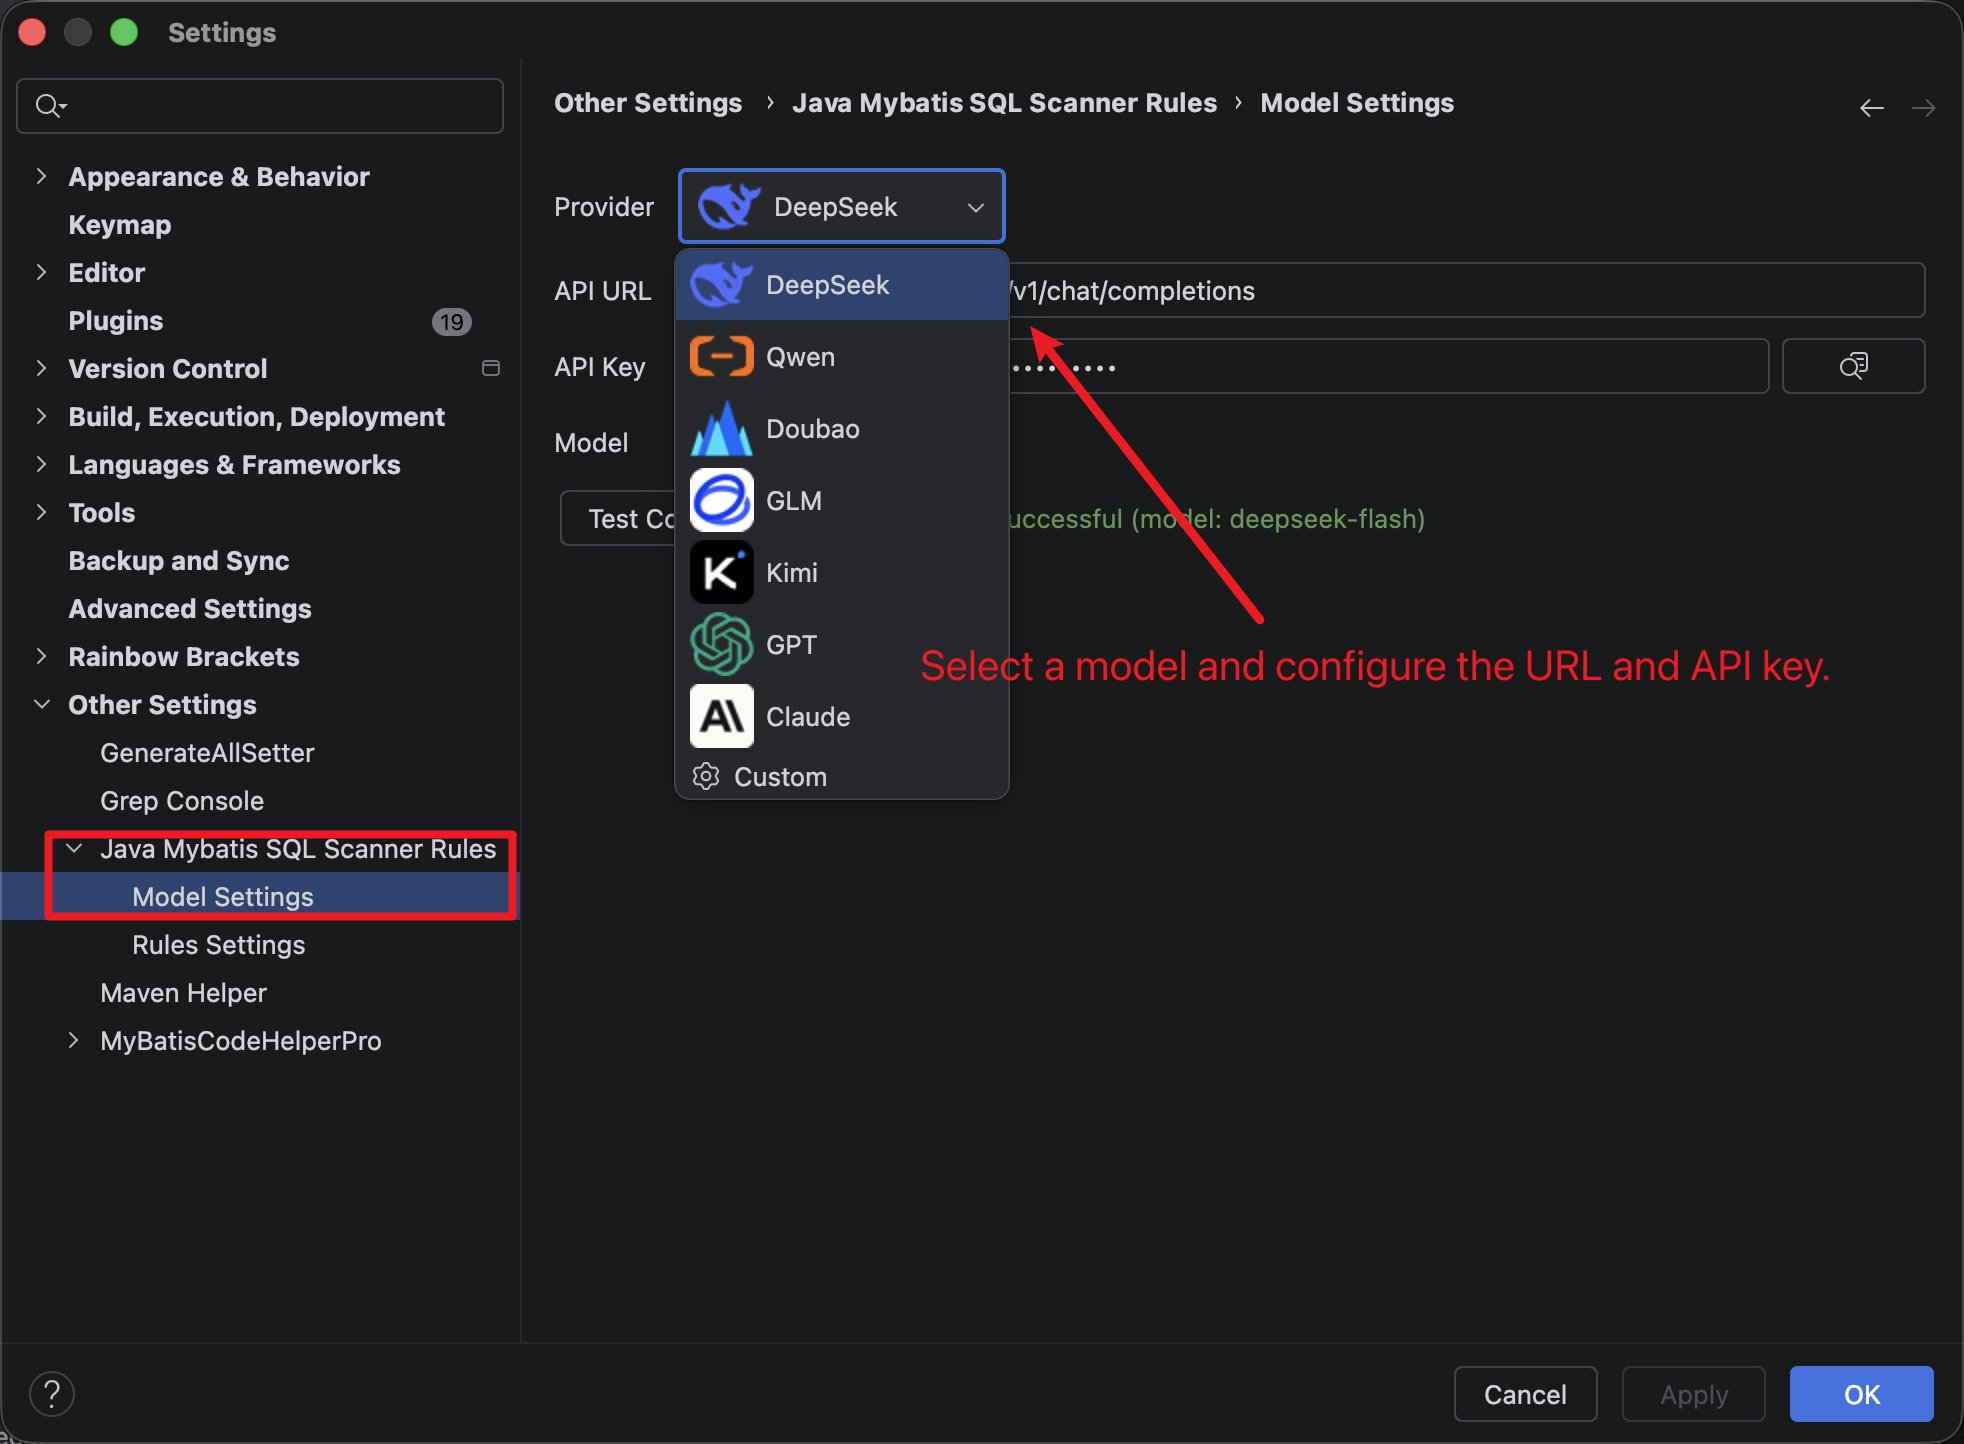
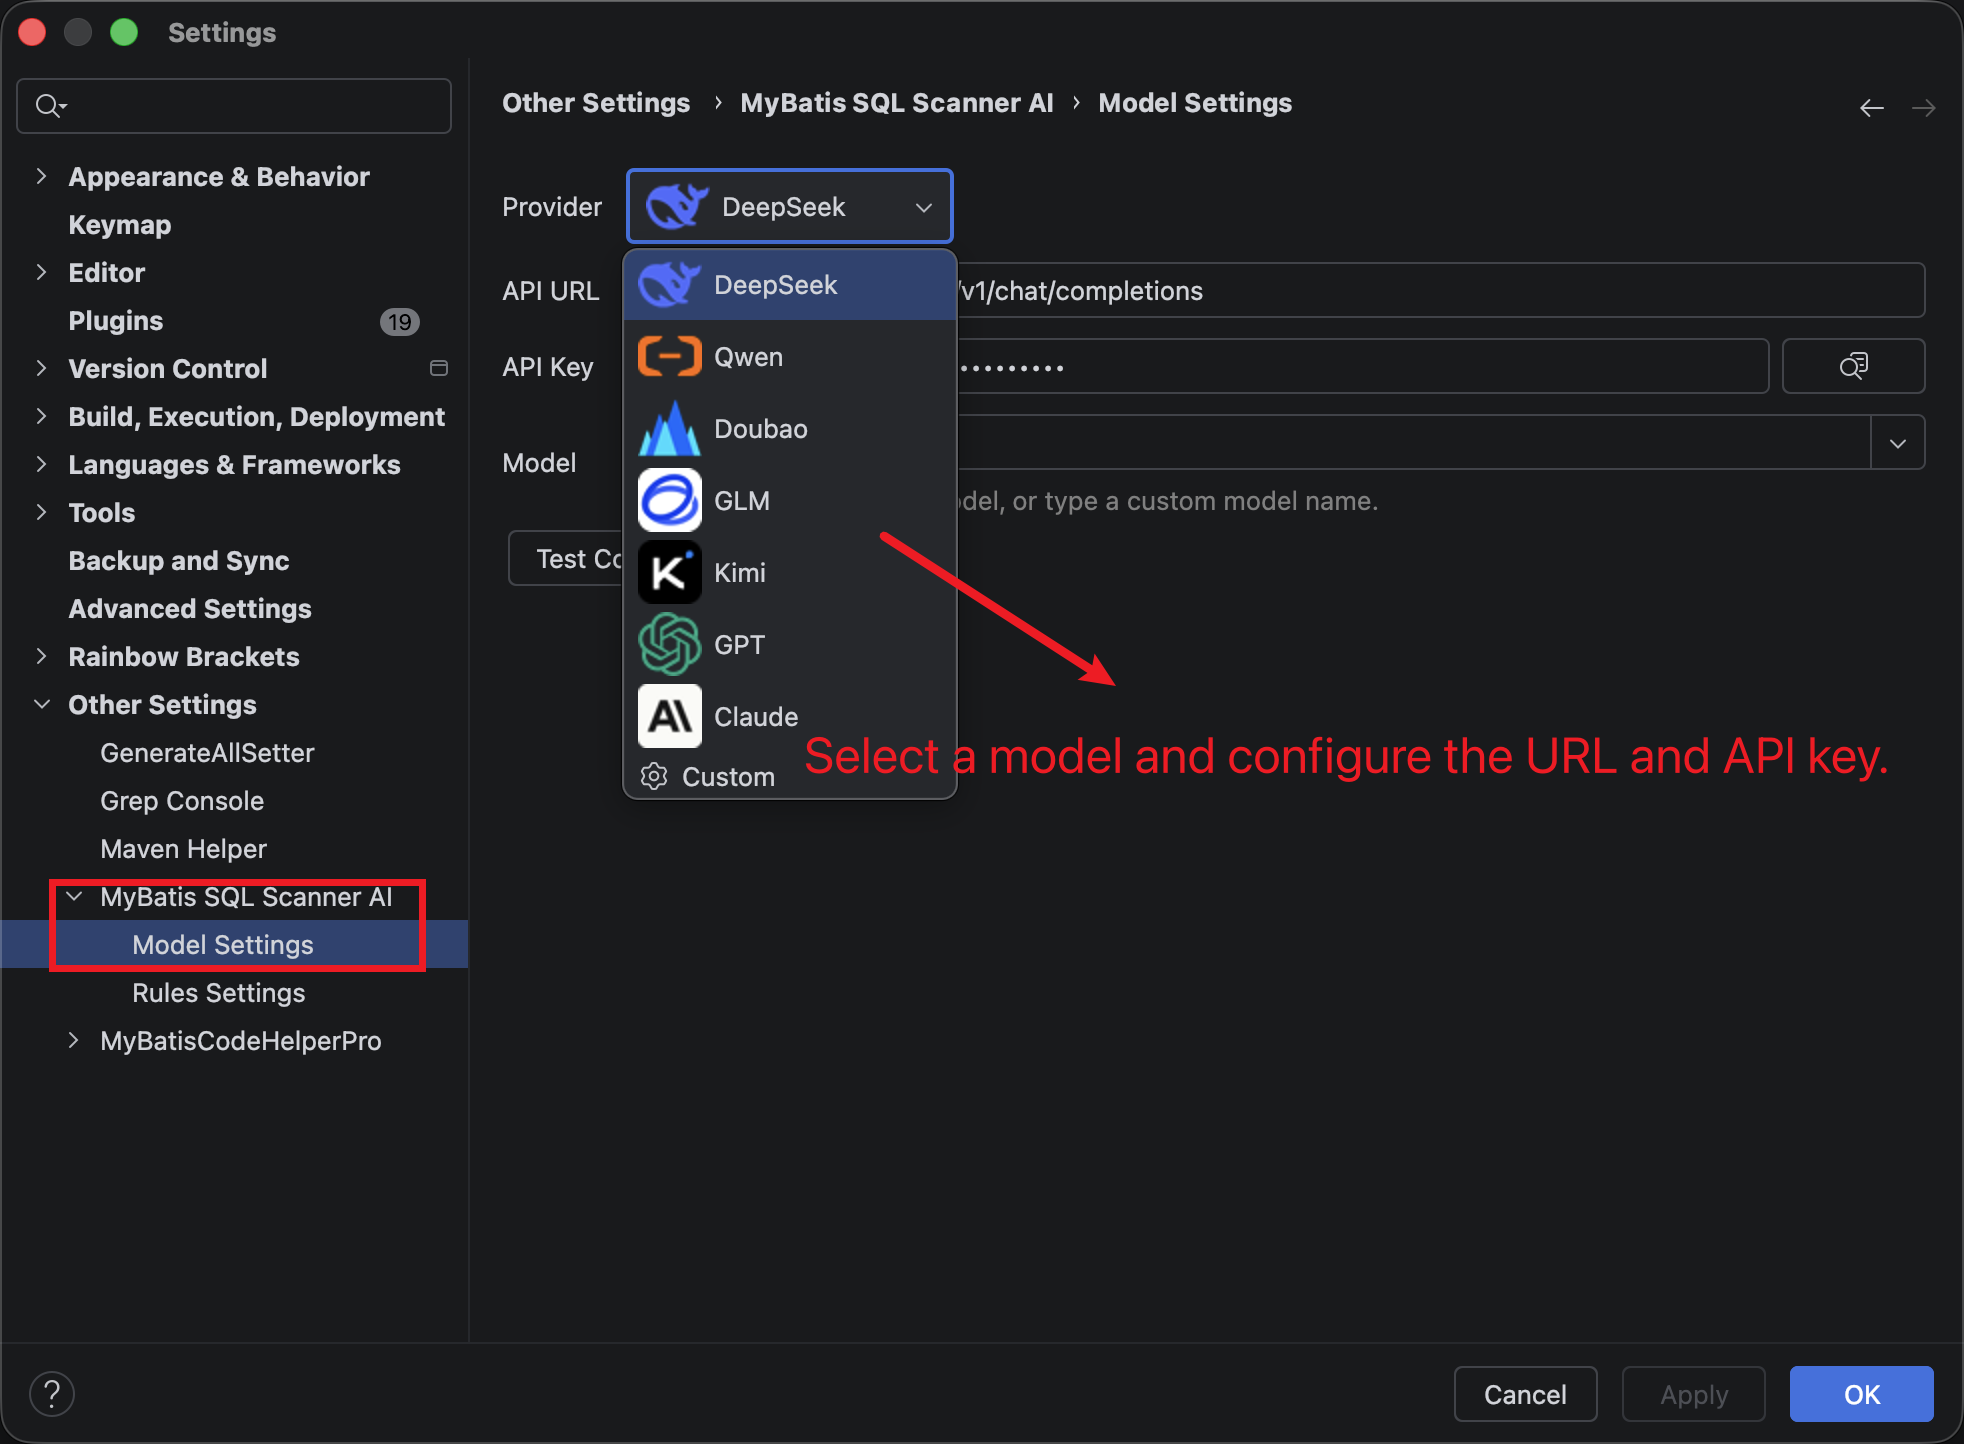
Unify the name as: MyBatis SQL Scanner AI，Refresh Guide Tutorial

diff --git a/src/main/java/com/zhang/scanner/settings/ai/AiModelSettingsConfig.java b/src/main/java/com/zhang/scanner/settings/ai/AiModelSettingsConfig.java
@@ -5,6 +5,7 @@ import com.intellij.openapi.application.ApplicationManager;
 import com.intellij.openapi.application.ModalityState;
 import com.intellij.openapi.options.SearchableConfigurable;
 import com.intellij.ui.JBColor;
+import com.intellij.ui.components.JBLabel;
 import com.intellij.util.ui.FormBuilder;
 import com.zhang.scanner.ai.AiApiClient;
 import com.zhang.scanner.utils.LanguageUtil;
@@ -84,6 +85,22 @@ public class AiModelSettingsConfig implements SearchableConfigurable {
         apiKeyField = new JPasswordField();
         modelCombo = new JComboBox<>();
         modelCombo.setEditable(true);
+
+        // Model 下拉可编辑: 常驻提示 + tooltip 让用户知道选中推荐模型后仍可直接输入自定义模型名
+        String modelTip = LanguageUtil.zhOrEn(
+                "Select a recommended model, or type a custom model name.",
+                "可选择推荐模型，也可直接输入自定义模型名。");
+        modelCombo.setToolTipText(modelTip);
+        ((JComponent) modelCombo.getEditor().getEditorComponent()).setToolTipText(modelTip);
+
+        JBLabel modelHint = new JBLabel(LanguageUtil.zhOrEn(
+                "Choose a recommended model, or type a custom model name.",
+                "可选择推荐模型，也可直接输入自定义模型名。"));
+        modelHint.setForeground(JBColor.GRAY);
+
+        JPanel modelPanel = new JPanel(new BorderLayout(0, 2));
+        modelPanel.add(modelCombo, BorderLayout.NORTH);
+        modelPanel.add(modelHint, BorderLayout.SOUTH);
 
         // Provider 下拉框: 选中项显示名随 UI 语言
         providerCombo = new JComboBox<>(AiProviderRegistry.PRESETS.toArray(
@@ -180,7 +197,7 @@ public class AiModelSettingsConfig implements SearchableConfigurable {
                 .addLabeledComponent(LanguageUtil.zhOrEn("Provider", "服务商"), providerCombo)
                 .addLabeledComponent(LanguageUtil.zhOrEn("API URL", "API 地址"), apiUrlField)
                 .addLabeledComponent(LanguageUtil.zhOrEn("API Key", "API 密钥"), apiKeyPanel)
-                .addLabeledComponent(LanguageUtil.zhOrEn("Model", "模型"), modelCombo)
+                .addLabeledComponent(LanguageUtil.zhOrEn("Model", "模型"), modelPanel)
                 .addComponent(testRow)
                 .addComponentFillVertically(new JPanel(), 0)
                 .getPanel();

diff --git a/src/main/java/com/zhang/scanner/ConsoleToolRunner.java b/src/main/java/com/zhang/scanner/ConsoleToolRunner.java
@@ -109,7 +109,7 @@ public class ConsoleToolRunner implements Disposable {
 
         // 新增第1个content, 展示 扫描结果
         final Content content = layoutUi.createContent("contentId", splitterPanel,
-                "SQL Scanner", AllIcons.Debugger.Console, splitterPanel);
+                "MyBatis SQL Scanner AI", AllIcons.Debugger.Console, splitterPanel);
         // 不允许关闭
         content.setCloseable(false);
         layoutUi.addContent(content);
@@ -149,7 +149,7 @@ public class ConsoleToolRunner implements Disposable {
         Map<RuleCodeEnum, List<XmlPluginRuleResult>> ruleMap = xmlPluginRuleResultAll.getRuleMap();
 
         // 创建root主节点
-        RootTreeNode root = new RootTreeNode("Mybatis Scanner");
+        RootTreeNode root = new RootTreeNode("MyBatis SQL Scanner AI");
 
         // 创建1级子节点(阻塞,严重,主要),固定顺序
         Map<String, C1DegreeTreeNode> c1DegreeTreeNodeMap = new HashMap<>();
@@ -216,7 +216,7 @@ public class ConsoleToolRunner implements Disposable {
             @NotNull
             @Override
             public String getName() {
-                return "Scanner";
+                return "MyBatis SQL Scanner AI";
             }
 
             @Override

diff --git a/src/main/java/com/zhang/scanner/settings/ai/ParentSettingsConfig.java b/src/main/java/com/zhang/scanner/settings/ai/ParentSettingsConfig.java
@@ -17,7 +17,7 @@ import java.awt.Font;
 
 /**
  * 设置页父节点:
- * Other Settings > Java Mybatis SQL Scanner Rules
+ * Other Settings > MyBatis SQL Scanner AI
  * 下挂 Rules Settings 与 Model Settings 两个子页(子页在 plugin.xml 中通过 parentId 注册)
  * <p>
  * 点击父节点时显示说明面板(避免平台对无内容节点显示占位文案).
@@ -34,7 +34,7 @@ public class ParentSettingsConfig implements SearchableConfigurable {
 
     @Override
     public String getDisplayName() {
-        return "Java Mybatis SQL Scanner Rules";
+        return "MyBatis SQL Scanner AI";
     }
 
     @Nullable
@@ -46,7 +46,7 @@ public class ParentSettingsConfig implements SearchableConfigurable {
         JPanel content = new JPanel();
         content.setLayout(new BoxLayout(content, BoxLayout.Y_AXIS));
 
-        JBLabel title = new JBLabel("Java Mybatis SQL Scanner Rules");
+        JBLabel title = new JBLabel("MyBatis SQL Scanner AI");
         Font titleFont = title.getFont();
         title.setFont(titleFont.deriveFont(Font.BOLD, titleFont.getSize() + 2f));
 

diff --git a/src/main/java/com/zhang/scanner/executor/TreeConsoleExecutor.java b/src/main/java/com/zhang/scanner/executor/TreeConsoleExecutor.java
@@ -20,6 +20,11 @@ public class TreeConsoleExecutor extends Executor implements Disposable {
 
     public static final String PLUGIN_ID = "SQL Plugin ID";
 
+    /**
+     * 插件用户可见显示名(与 plugin.xml <name> 保持一致)
+     */
+    public static final String PLUGIN_NAME = "MyBatis SQL Scanner AI";
+
     public static final String TOOL_WINDOW_ID = "Scanner";
 
 
@@ -73,19 +78,19 @@ public class TreeConsoleExecutor extends Executor implements Disposable {
 
     @Override
     public String getDescription() {
-        return TOOL_WINDOW_ID;
+        return PLUGIN_NAME;
     }
 
     @NotNull
     @Override
     public String getActionName() {
-        return TOOL_WINDOW_ID;
+        return PLUGIN_NAME;
     }
 
     @NotNull
     @Override
     public String getStartActionText() {
-        return TOOL_WINDOW_ID;
+        return PLUGIN_NAME;
     }
 
     @Override

diff --git a/src/main/java/com/zhang/scanner/action/RunAction.java b/src/main/java/com/zhang/scanner/action/RunAction.java
@@ -54,7 +54,7 @@ public class RunAction extends AnAction {
 
         // 扫描(核心解析)属于耗时操作, 禁止在 EDT 上执行, 否则大目录扫描会卡死界面.
         // 解析完成后回到 EDT 创建结果面板.
-        new Task.Backgroundable(project, "Java Mybatis SQL Scanner: 扫描 Mybatis SQL XML", true) {
+        new Task.Backgroundable(project, "MyBatis SQL Scanner AI: 扫描 MyBatis SQL XML", true) {
             @Override
             public void run(@NotNull ProgressIndicator indicator) {
                 indicator.setIndeterminate(true);

diff --git a/src/main/java/com/zhang/scanner/ui/table/rule_active_setting/MySetttingTable.java b/src/main/java/com/zhang/scanner/ui/table/rule_active_setting/MySetttingTable.java
@@ -233,7 +233,7 @@ public class MySetttingTable {
                     }
                 };
 
-        tableEditor = new TableModelEditor<>(COLUMNS, itemEditor, "SQL Scanner Settings")
+        tableEditor = new TableModelEditor<>(COLUMNS, itemEditor, "MyBatis SQL Scanner AI")
                 .modelListener(new TableModelEditor.DataChangedListener<MySettingRow>() {
 
                     /**

diff --git a/README.MD b/README.MD
@@ -13,7 +13,7 @@ turn rules on or off.
 
 Ask AI: 点击预览面板的 Ask AI 按钮, 将当前 SQL(原始 XML / 格式化 SQL / SQL Type / 报错建议)交给 AI 做智能分析, 支持 DeepSeek、Qwen、Doubao、GLM、Kimi、GPT、Claude 与自定义(OpenAI 兼容协议; 需 Anthropic 协议时选择 Claude 预设并改填 URL 即可).  
 回答流式输出; 思考型模型的思考过程以斜体小字实时展示、回答开始后自动折叠(点标题展开); 回答区字号可调并持久化; 同一 SQL 未换模型/语言时复用上次回答, 不重复调用. AI Language 按钮可切换 AI 回答语言(中文/英文/跟随 IDE), 与界面语言无关.  
-首次使用请在 `Settings > Other Settings > Java Mybatis SQL Scanner Rules > Model Settings` 中通过 Provider 下拉框(带官方图标)选择供应商、配置 API URL / API Key / Model(选择后自动填充官方默认值, 可编辑), 并用 Test Connection 验证配置(真实调用一次, 模型名填错会提示并列出可用模型). 每家供应商独立保存一套配置, 切换后无需重新填写.
+首次使用请在 `Settings > Other Settings > MyBatis SQL Scanner AI > Model Settings` 中通过 Provider 下拉框(带官方图标)选择供应商、配置 API URL / API Key / Model(选择后自动填充官方默认值, 可编辑), 并用 Test Connection 验证配置(真实调用一次, 模型名填错会提示并列出可用模型). 每家供应商独立保存一套配置, 切换后无需重新填写.
 
 这里开源的是idea插件界面，扫描核心方法在jar包 <b>resources/libs</b>.
 

diff --git a/architecture.md b/architecture.md
@@ -1,6 +1,6 @@
 # 架构文档
 
-> 本文档描述 Java Mybatis SQL Scanner 插件的分层架构、核心流程与关键设计。扫描核心为闭源 jar，仅从公开 API 与字节码层面说明契约。
+> 本文档描述 MyBatis SQL Scanner AI 插件的分层架构、核心流程与关键设计。扫描核心为闭源 jar，仅从公开 API 与字节码层面说明契约。
 
 ## 1. 总体架构
 
@@ -55,7 +55,7 @@
 
 ### 4.1 ConsoleToolRunner
 
-- `run()`：创建 `RunnerLayoutUi`，组装左右分屏（结果树 + 预览），添加「SQL Scanner」「Table Operation」两个 Content，注册工具栏，通过 `RunContentManager` 展示
+- `run()`：创建 `RunnerLayoutUi`，组装左右分屏（结果树 + 预览），添加「MyBatis SQL Scanner AI」「Table Operation」两个 Content，注册工具栏，通过 `RunContentManager` 展示
 - `createSimpleTree()`：调用 `ResultUtil.doRuleAll()` 聚合结果，构建四级树（等级 → 规则 → mapper → 明细）
 - 生命周期：实现 `Disposable`，但未注册到 Disposer 树，实际不会被释放
 

diff --git a/AGENTS.MD b/AGENTS.MD
@@ -2,7 +2,7 @@
 
 ## 项目简介
 
-Java Mybatis SQL Scanner 是一个 IntelliJ IDEA 插件（插件 ID：`com.plugin.sql`），用于扫描 MyBatis/iBatis mapper XML，基于 Druid 解析 SQL，按 20 条规则输出 Blocked / Critical / Major 三级问题，提供结果树、表操作统计、代码预览与跳转、规则开关等能力。
+MyBatis SQL Scanner AI 是一个 IntelliJ IDEA 插件（插件 ID：`com.plugin.sql`），用于扫描 MyBatis/iBatis mapper XML，基于 Druid 解析 SQL，按 20 条规则输出 Blocked / Critical / Major 三级问题，提供结果树、表操作统计、代码预览与跳转、规则开关等能力。
 
 此外内置 **Ask AI** 智能分析：把扫描出的 SQL（原始 XML / 格式化 SQL / SQL Type / 报错建议）发给大模型流式分析，支持 7 家供应商（DeepSeek、Qwen、Doubao、GLM、Kimi、GPT、Claude）+ 自定义，每家独立保存 URL/Key/Model，思考过程实时展示，详见 `docs/ask-ai-prompt.md`。
 
